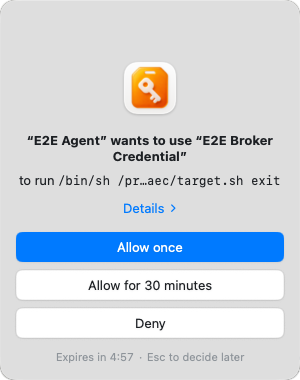
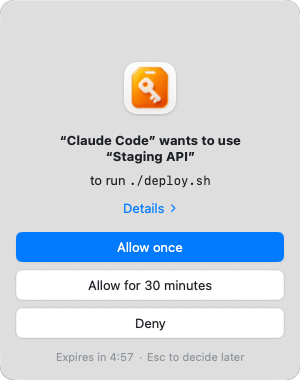
Replace the README approval screenshot with the demo scenario
Taken from the askkey-basic-ui-evidence artifact of CI run 37254165464. The Agent access screenshot regenerated byte-identical after cropping.

Changed region(s): [[0.09, 0.3474, 0.9, 0.4342], [0.06, 0.4632, 0.81, 0.4921], [0.84, 0.4632, 0.93, 0.4921]]

diff --git a/README.zh-CN.md b/README.zh-CN.md
@@ -9,7 +9,7 @@
 > **[下载最新版本](https://github.com/sudoHG/AskKey/releases/latest)**（经过 Apple 公证的 DMG，需要 macOS 14 或更高版本）。v0.1 没有备份和恢复功能，请自行另存一份凭证原件。
 
 <p align="center">
-  <img src="assets/readme/approval-prompt.png" width="300" alt="请旨的批准弹窗：某个 Agent 想用一份凭证运行一条命令，下方是“允许本次”“允许 30 分钟”和“拒绝”按钮（截图为英文界面）">
+  <img src="assets/readme/approval-prompt.png" width="300" alt="请旨的批准弹窗：Claude Code 想用 Staging API 运行 ./deploy.sh，下方是“允许本次”“允许 30 分钟”和“拒绝”按钮（截图为英文界面）">
 </p>
 
 ## 为什么需要它

diff --git a/README.md b/README.md
@@ -9,7 +9,7 @@ English | [Simplified Chinese](README.zh-CN.md)
 > **[Download the latest release](https://github.com/sudoHG/AskKey/releases/latest)** (notarized DMG, macOS 14+). Version 0.1 has no backup or recovery, so keep the originals of your credentials somewhere else.
 
 <p align="center">
-  <img src="assets/readme/approval-prompt.png" width="300" alt="AskKey approval prompt: an Agent wants to use a credential to run a command, with the buttons Allow once, Allow for 30 minutes and Deny">
+  <img src="assets/readme/approval-prompt.png" width="300" alt="AskKey approval prompt: Claude Code wants to use Staging API to run ./deploy.sh, with the buttons Allow once, Allow for 30 minutes and Deny">
 </p>
 
 ## Why it exists
